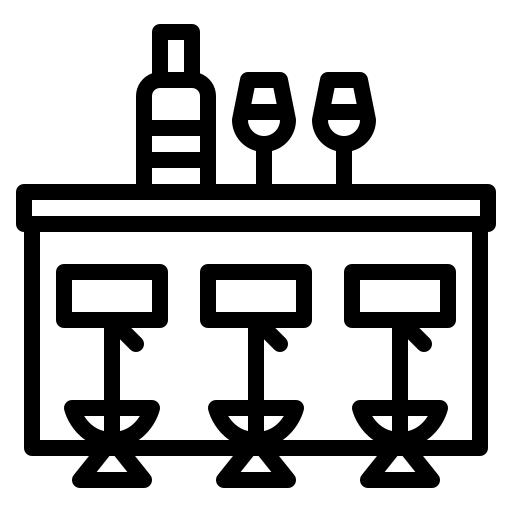
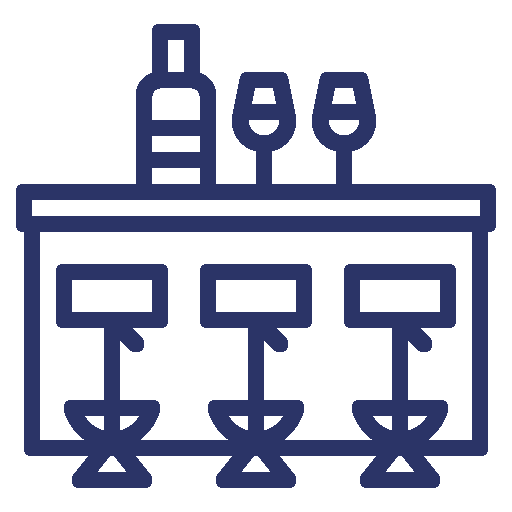
change of palet colors

diff --git a/src/App.css b/src/App.css
@@ -28,10 +28,9 @@
     display: flex;
     justify-content: center;
     align-items: center;
-    background-color: var(--color-grey);
+    background-color: var(--color-white);
     border-radius: 1rem;
-    box-shadow: 12px -12px 24px #d3d3d3,
-        -12px 12px 24px #f3f3f3;
+    box-shadow: var(--shadow-elevation-medium);
     z-index: 1;
 }
 
@@ -45,7 +44,7 @@
     font-size: 1.2rem;
     background-color: inherit;
     border-radius: 1rem 0 0 1rem;
-    color: var(--color-blue);
+    color: var(--color-red);
 }
 
 .form__button {
@@ -58,12 +57,11 @@
     background: inherit;
     border-radius: 1rem 1rem 1rem 1rem;
     cursor: pointer;
-    color: var(--color-blue);
+
 }
 
 .form__button:active {
-    background-color: var(--color-blue);
-    color: var(--color-yellow);
+    background-color: var(--color-lightBlue);
 }
 
 .div--cards {
@@ -77,11 +75,10 @@
     height: 400px;
     border-radius: 1rem;
     overflow: hidden;
-    box-shadow: 12px -12px 24px #d3d3d3,
-        -12px 12px 24px #f3f3f3;
+    box-shadow: var(--shadow-elevation-high);
     margin: 20px;
     position: relative;
-    color: var(--color-grey);
+    color: var(--color-white);
     ;
 }
 
@@ -103,11 +100,11 @@
 .div__div--textCards {
     position: absolute;
     top: 80%;
-    color: var(--color-yellow);
+    color: var(--color-white);
     height: 100%;
     width: 100%;
-    background: rgb(27,31,31);
-    background: linear-gradient(0deg, rgba(27,31,31,0.8715861344537815) 67%, rgba(27,31,31,0.8491771708683473) 70%, rgba(27,31,31,0) 100%);
+    background: rgb(27, 31, 31);
+    background: linear-gradient(0deg, rgba(27, 31, 31, 0.8715861344537815) 67%, rgba(27, 31, 31, 0.8491771708683473) 70%, rgba(27, 31, 31, 0) 100%);
     font-size: 1rem;
     display: flex;
     flex-direction: column;
@@ -122,17 +119,18 @@
 }
 
 .div--cards:hover .div__picture {
-    filter: blur(10px);
+    filter: blur(4px);
     transform: translateY(-20px);
     transition: all 0.5s;
 }
 
 .div__div--h3 {
     margin: 20px 0 40px 20px;
-    padding: 10px;
+    padding: 5px;
     align-self: flex-start;
-    border-radius: 1rem;
-    background-color: var(--color-blue);
+    border-radius: 0.5rem;
+    background-color: var(--color-white);
+    color: var(--color-red);
 }
 
 .div__div--p {
@@ -146,7 +144,6 @@
 .div--cards:hover .div__div--textCards {
     top: 40%;
     transition: all 1s;
-    color: var(--color-yellow);
 }
 
 .div--cards:hover .div__div--h3 {

diff --git a/src/index.css b/src/index.css
@@ -1,7 +1,29 @@
 :root{
-    --color-grey:#E3E3E3;
-    --color-blue:#592EDB;
-    --color-yellow:#F9BA34;
+    --color-red:#EB455F;
+    --color-white:#FCFFE7;
+    --color-lightBlue:#BAD7E9;
+    --color-blue:#2B3467;
+
+    --shadow-color: 0deg 0% 0%;
+    --shadow-elevation-low:
+      -0.2px 0.2px 0.3px hsl(var(--shadow-color) / 0.12),
+      -0.4px 0.3px 0.6px -1.1px hsl(var(--shadow-color) / 0.13),
+      -1px 0.9px 1.6px -2.2px hsl(var(--shadow-color) / 0.14);
+    --shadow-elevation-medium:
+      -0.2px 0.2px 0.3px hsl(var(--shadow-color) / 0.13),
+      -0.9px 0.7px 1.3px -0.7px hsl(var(--shadow-color) / 0.13),
+      -2.2px 1.8px 3.3px -1.5px hsl(var(--shadow-color) / 0.14),
+      -5.2px 4.4px 7.9px -2.2px hsl(var(--shadow-color) / 0.15);
+    --shadow-elevation-high:
+      -0.2px 0.2px 0.3px hsl(var(--shadow-color) / 0.11),
+      -1.6px 1.4px 2.5px -0.3px hsl(var(--shadow-color) / 0.11),
+      -2.9px 2.5px 4.5px -0.6px hsl(var(--shadow-color) / 0.11),
+      -4.6px 3.9px 7px -0.8px hsl(var(--shadow-color) / 0.11),
+      -6.9px 5.8px 10.5px -1.1px hsl(var(--shadow-color) / 0.12),
+      -10.2px 8.6px 15.5px -1.4px hsl(var(--shadow-color) / 0.12),
+      -14.8px 12.5px 22.5px -1.7px hsl(var(--shadow-color) / 0.12),
+      -21.1px 17.9px 32.2px -2px hsl(var(--shadow-color) / 0.12),
+      -29.5px 24.9px 44.9px -2.2px hsl(var(--shadow-color) / 0.13);
 }
 
 body{
@@ -10,7 +32,7 @@ body{
     margin: 0;
     padding: 0;
     box-sizing: border-box;
-    background-color: var(--color-grey);
+    background-color: var(--color-red);
     font-family: 'Franklin Gothic Medium', 'Arial Narrow', Arial, sans-serif;
 }
 
@@ -21,7 +43,7 @@ h1,h2,h3,h4,h5,h6,p,img{
 
 p::selection{
     background-color: rgba(255, 0, 0, 0);;
-    color: var(--color-grey);
+    color: var(--color-red);
 }
 
 
